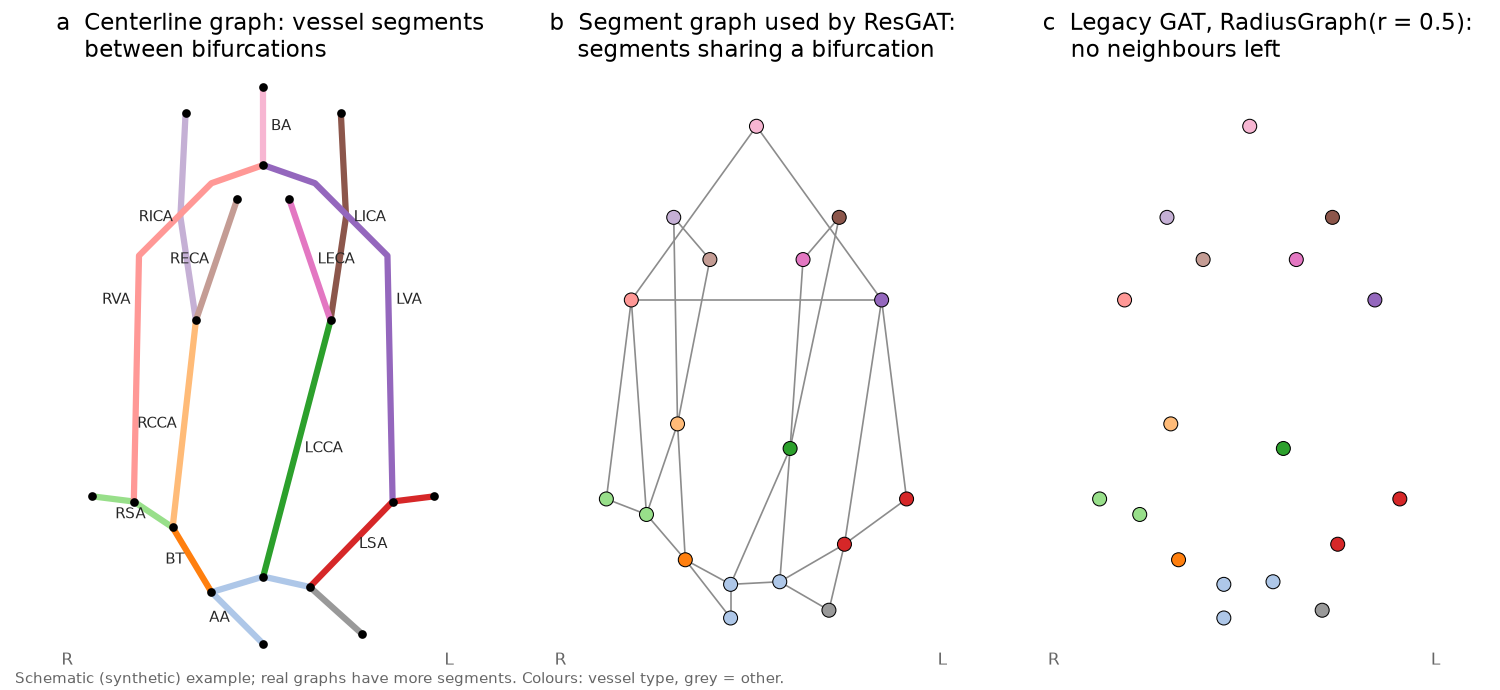
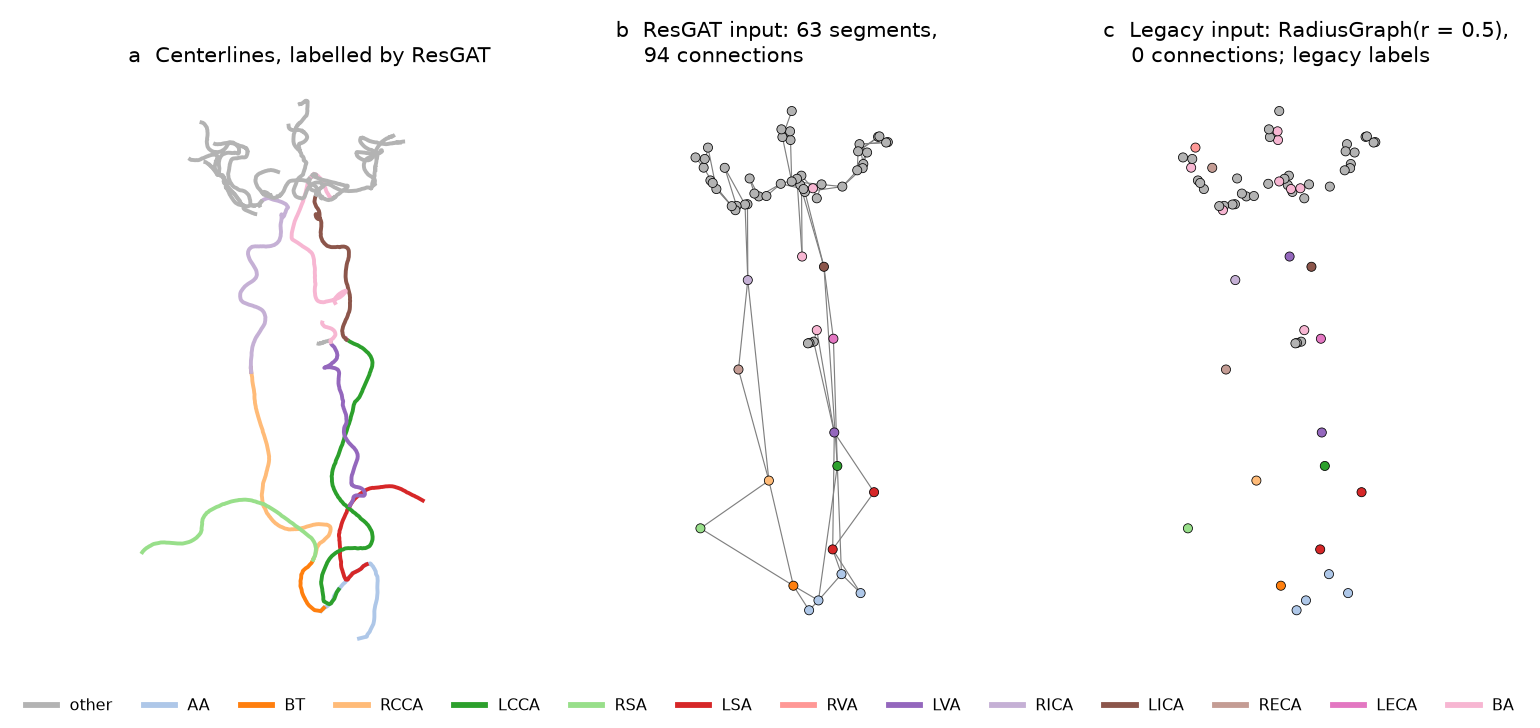
docs: vessel labelling report figure from a real case

diff --git a/docs/reports/vessel_labelling_resgat.md b/docs/reports/vessel_labelling_resgat.md
@@ -45,10 +45,12 @@ Errors by vessel type (ensemble):
 
 ![Segment graph](../figures/vessel_labelling/graph_edges.png)
 
+*A head-and-neck case processed by Arterial, coronal view (patient right on the left). (a) Centerlines coloured by the ResGAT labels. (b) The segment graph the ResGAT uses: one node per segment, connected when two segments share a bifurcation. (c) What the legacy model received after `RadiusGraph(r = 0.5)`: no connections at all; nodes coloured by the legacy labels.*
+
 **The bug.** The labeller works on the segment graph: one node per vessel segment, connected to the segments it shares
 a bifurcation with (panel b).
 - The legacy model rebuilt these connections with `RadiusGraph(r = 0.5)` on the segment positions. Segments are almost
-  never within 0.5 mm of each other, so about 99% of the connections were deleted (panel c).
+  never within 0.5 mm of each other, so about 99% of the connections were deleted: in the case above, all 94 (panel c).
 - The graph network therefore labelled each segment from its own 24 features alone.
 - A gradient-boosted tree on the same features, with no graph at all, makes about as many errors: 112.
 
